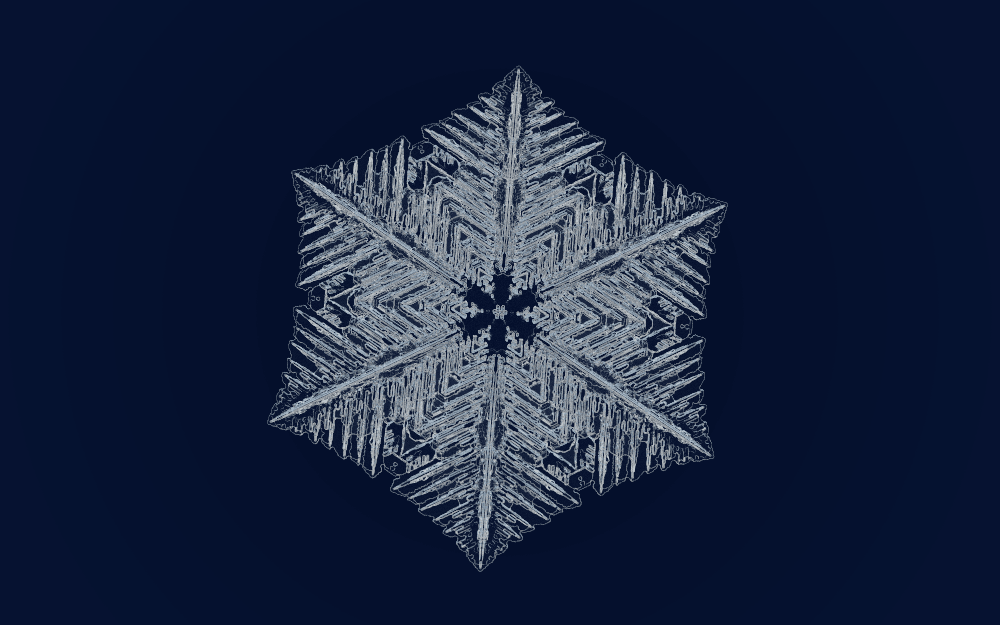
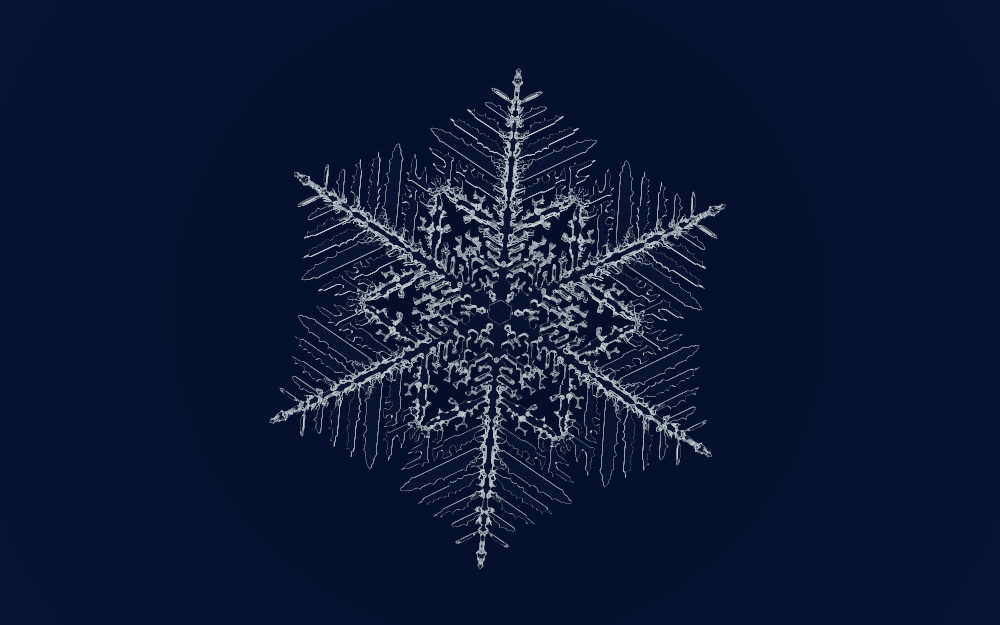
snowflake: open fernlike stellar dendrites near water saturation
The old fern was a filled hexagonal plate with fern-patterned ridges on top
(seen from above, 77% of the disk out to its tips was ice, like a plain
plate), so no weather grew the open dendrites of real snow. A random search
(.search.mjs, scored by the new snow.shape(): how much of the disk is ice
seen from above, and how much edge it has) found open, branched, thin
crystals with every attachment threshold about doubled and ten times the
melting. Near water saturation at plate temperatures the model now blends
toward those settings, scaled with the chart's vapor, so plates give way to
sectored plates and then to fernlike stellar dendrites (fill 0.77 -> 0.27).
Other weathers are unchanged and every preset still grows in 4.4-7.2 s.

Changed region(s): [[0.248, 0.0912, 0.744, 0.912]]

diff --git a/snowflake/habits.js b/snowflake/habits.js
@@ -90,6 +90,44 @@ const THRESHOLDS = [
   [-1, 2.2, 4.2],
 ];
 
+/**
+ * Stellar and fernlike dendrites: thin arms with side branches and open
+ * gaps between the arms, which real crystals grow near water saturation at
+ * plate temperatures. Found by a random search (.search.mjs) for crystals that
+ * are open and branched seen from above: every attachment threshold about
+ * twice the plates', and ten times the melting. The search found it at rho
+ * 0.247. The model is linear in vapor (scaling rho and every threshold
+ * together grows the same crystal), so the thresholds here are per unit of
+ * rho and scale with whatever rho the chart gives.
+ */
+const DENDRITE = {
+  kappa: 0.00101,
+  mu: 0.0138,
+  gamma: 0.00085,
+  sigma: 0.000635,
+  diff: 0.132,
+};
+const DENDRITE_PER_RHO = Object.fromEntries(
+  Object.entries({
+    b01: 3.67,
+    b10: 2.03,
+    b20: 2.64,
+    b11: 1.48,
+    b21: 1.48,
+    b30: 2.14,
+    b31: 2.14,
+    theta: 0.0209,
+    xi: 0.0495,
+  }).map(([key, v]) => [key, v / 0.247]),
+);
+/** Rates that range over orders of magnitude blend on a log scale */
+const RATES = ['kappa', 'mu', 'gamma'];
+
+const smoothstep = (a, b, x) => {
+  const t = Math.min(1, Math.max(0, (x - a) / (b - a)));
+  return t * t * (3 - 2 * t);
+};
+
 /** Model parameters for a temperature (C) and supersaturation over ice */
 export const paramsFor = (weather) => {
   const P = plateness(weather.T);
@@ -102,13 +140,25 @@ export const paramsFor = (weather) => {
     THRESHOLDS.map(([p, , d]) => [p, d]),
     P,
   );
-  return {
+  const plain = {
     ...BASE,
     rho: 0.04 + 0.32 * s ** 1.3,
     b01: top,
     b10: side,
     b20: side,
   };
+  // Near water saturation where plates grow, they turn into dendrites
+  const w = smoothstep(0.6, 0.95, s) * smoothstep(0.4, 0.9, P);
+  if (!w) return plain;
+  return Object.fromEntries(
+    Object.entries(plain).map(([key, v]) => {
+      const to =
+        key === 'rho'
+          ? v
+          : (DENDRITE[key] ?? DENDRITE_PER_RHO[key] * plain.rho);
+      return [key, RATES.includes(key) ? v * (to / v) ** w : v + (to - v) * w];
+    }),
+  );
 };
 
 /** Labels for the chart's regions, after Libbrecht's morphology diagram:

diff --git a/snowflake/main.js b/snowflake/main.js
@@ -437,7 +437,49 @@ window.snow = {
     testing = false;
     return rows.filter((_, k) => k % Math.ceil(rows.length / 8) === 0);
   },
-  async grow({path, model: m, steps = 20000, chunk = 100} = {}) {
+  /**
+   * For tuning: how open and how branched the crystal is seen from above. fill: the
+   * share of the disk out to the farthest cell that's crystal (a solid
+   * hexagon is 0.83). edge: crystal cells with a vapor neighbor, per cell of
+   * radius (a plain hexagon is about 6).
+   */
+  async shape() {
+    const m = await sim.above();
+    const n = sim.n;
+    const at = (q, r) =>
+      r >= 0 && r <= q && q < n ? m[(q * (q + 1)) / 2 + r] : 0;
+    const fold = (q, r) => {
+      for (let k = 0; k < 3; k++) {
+        if (r < 0) [q, r] = [q + r, -r];
+        if (r > q) [q, r] = [r, q];
+      }
+      return at(q, r);
+    };
+    let ice = 0;
+    let edge = 0;
+    let far = 0;
+    for (let q = 0; q < n; q++)
+      for (let r = 0; r <= q; r++) {
+        if (!at(q, r)) continue;
+        // each wedge cell stands for 12, fewer on the wedge's edges
+        const copies = r === 0 || r === q ? 6 : 12;
+        ice += q === 0 ? 1 : copies;
+        far = Math.max(far, Math.sqrt(q * q + q * r + r * r));
+        const around = [
+          [1, 0],
+          [-1, 0],
+          [0, 1],
+          [0, -1],
+          [1, -1],
+          [-1, 1],
+        ];
+        if (around.some(([dq, dr]) => !fold(q + dq, r + dr))) edge += copies;
+      }
+    // cells per unit area on a triangular lattice: 2 / sqrt(3)
+    const disk = Math.PI * far * far * (2 / Math.sqrt(3));
+    return {fill: ice / disk, edge: edge / far, far};
+  },
+  async grow({path, model: m, steps = 20000, chunk = 100, settle = 300} = {}) {
     testing = true;
     if (m) Object.assign(manual, m);
     settings.manual = !!m;
@@ -447,7 +489,7 @@ window.snow = {
       frame(chunk);
       await device.queue.onSubmittedWorkDone();
     }
-    for (let k = 0; k < 300; k++) {
+    for (let k = 0; k < settle; k++) {
       frame(0);
       await device.queue.onSubmittedWorkDone();
     }

diff --git a/snowflake/sim.js b/snowflake/sim.js
@@ -434,6 +434,28 @@ export const makeSim = (device, {n, nz}) => {
     extents,
     /** The smoothed crystal, for drawing */
     field,
+    /** For tuning: the crystal seen from above, 1 where any layer is
+        crystal, read back */
+    async above() {
+      const read = device.createBuffer({
+        size: cells * 8,
+        usage: GPUBufferUsage.COPY_DST | GPUBufferUsage.MAP_READ,
+      });
+      const encoder = device.createCommandEncoder();
+      encoder.copyBufferToBuffer(a[0], 0, read, 0, cells * 4);
+      encoder.copyBufferToBuffer(a[1], 0, read, cells * 4, cells * 4);
+      device.queue.submit([encoder.finish()]);
+      await read.mapAsync(GPUMapMode.READ);
+      const both = new Uint32Array(read.getMappedRange().slice(0));
+      read.destroy();
+      const [x, y] = [both.subarray(0, cells), both.subarray(cells)];
+      // the newer copy has the more crystal
+      const sum = (c) => c.reduce((t, v) => t + v, 0);
+      const now = sum(x) >= sum(y) ? x : y;
+      const top = new Uint8Array(layer);
+      for (let i = 0; i < cells; i++) if (now[i]) top[i % layer] = 1;
+      return top;
+    },
     reset,
     setParams,
     step,

diff --git a/snowflake/README.md b/snowflake/README.md
@@ -2,7 +2,7 @@ Snowflake - 2026 - Draw the weather a snow crystal falls through and watch it gr
 
 Growth follows Gravner and Griffeath's mesoscopic model of snow crystals ("Modeling snow-crystal growth: a three-dimensional mesoscopic approach", 2009) on a lattice of hexagonal prisms, run on WebGPU. Vapor diffuses toward the crystal, condenses on its surface, and cells join the crystal once they've gathered enough, more easily the more crystal they touch. Branching, faceting, ridges and hollows all come out of that. The six-fold symmetry comes from the lattice, as it comes from ice's molecules in real snow, and only 1/24 of the crystal is simulated.
 
-The chart in the corner is temperature across and supersaturation over ice up: how much more water vapor the air holds than ice is in balance with. The dashed line is water saturation. Inside a cloud, droplets keep the air near that line, which is why ferny stars, which need air near water saturation at about -15°C, are common, while the far top of the chart is only reached in a lab. Drag on the chart to draw a path, or click to hold one spot; the dot moves along the path as the crystal grows. Random weather draws a smooth wandering path, so every crystal comes out different. Temperature sets how much harder a new layer is to start on the top face than on the sides (real crystals flip between plates and columns twice between 0 and -22°C), and how close the air is to water saturation sets how much vapor the model has. The region labels follow Libbrecht's morphology diagram, but the mapping from the chart to the model's parameters is hand tuned, so the model's crystals only roughly match where real ones grow.
+The chart in the corner is temperature across and supersaturation over ice up: how much more water vapor the air holds than ice is in balance with. The dashed line is water saturation. Inside a cloud, droplets keep the air near that line, which is why ferny stars, which need air near water saturation at about -15°C, are common, while the far top of the chart is only reached in a lab. Drag on the chart to draw a path, or click to hold one spot; the dot moves along the path as the crystal grows. Random weather draws a smooth wandering path, so every crystal comes out different. Temperature sets how much harder a new layer is to start on the top face than on the sides (real crystals flip between plates and columns twice between 0 and -22°C), and how close the air is to water saturation sets how much vapor the model has. Near water saturation at plate temperatures the model also shifts toward settings found by a search for open, branched crystals (every attachment threshold about doubled, with ten times the melting), so plates give way to sectored plates and then to fernlike stellar dendrites, thin arms with side branches and open gaps between them, as in real snow. The region labels follow Libbrecht's morphology diagram, but the mapping from the chart to the model's parameters is hand tuned, so the model's crystals only roughly match where real ones grow.
 
 The URL keeps the path, grid size and lighting, so a link grows the same crystal. Speed is how long a crystal takes to grow: about 5 seconds at Normal (a few weathers that need tens of thousands of steps take up to about 7), 15 at Slow, and as fast as the GPU allows at Fast. While it grows the preview follows light through only two surfaces, and the full picture builds once it stops.
 

diff --git a/snowflake/CLAUDE.md b/snowflake/CLAUDE.md
@@ -17,3 +17,4 @@
 - Drawn and random weathers took 4-60+ s even on the 160 grid, but with few steps (2,700 steps in 41 s): thick 3D crystals took ~35 ms a frame to trace, and the step controller only gets what's left of a frame. Drawing at half size while growing fixed it (eight random weathers: 1.0-3.1 s); then 2 bounces at full size replaced that, same cost per frame (fern 13 ms vs 12; 8 bounces at full size 35 ms) and much sharper. Speed is now a target time: Normal holds growth back to about 5 s (8 random weathers 4.6-5.2 s; presets 4.6-7.2 s, the simple plate and column need ~21,000 steps).
 - Lamp and shadow (Nov 2026): a compute pass (`light` in render.js) traces one ray per cell of a 512 x 512 map across the lamp's beam each frame, through the crystal to the floor, and counts landings. Because each map cell is a patch of the beam, count / frames is the floor's light relative to no crystal, with no other normalizing. It runs only once the crystal is still (during growth the floor shows no shadow), costs ~11% while settling (fern: 26.7 vs 23.7 fps), and keeps its counts while the camera turns. The map's outer 6% fades to plain light: rays the lamp's size sends past the edge are lost and none come in, which drew a visible square. Lamp radius 0.05 rad gave soft caustics and the ice glittered with fireflies (paths that rarely find a bright small lamp); at 0.02 with each camera sample capped at 40 (BRIGHTEST) it's clean. The cap doesn't touch the other lights, which never exceed ~4.
 - Under the lamp the crystal stands on an arm tip (the world, not the crystal, is turned: `standing` in render.js), so shadows fall long. The lamp isn't in the background at all: a path that found so small a lamp brought back ~2,400 and the 40 cap crushed every reflection of it. Instead the lamp's light is added directly (GGX, GLOSS 0.1 reflected, HAZE 0.2 coming through the ice) where the camera's ray first meets the ice and where it first reaches the far side, if a ray toward the lamp is clear. Reflection alone looked dull: a vertical face sends the low lamp's light down, never up to a camera above, so most sparkle is light coming through the ice. Narrower (0.1) light through the ice lit single pixels like grit, and adding it at every surface turned thick crystals to sandpaper.
+- Open ferns (Nov 2026): the old fern was a filled hexagonal plate with fern-patterned ridges on top (seen from above, 77% of the disk out to its tips was ice, the same as a plain plate), which is why no weather gave open dendrites. Ruled out first: more vapor (solid plates), slower diffusion, noise, stopping growth earlier, the corner fill-in rule off, easier tips with harder side rows (plates or ruled wedges), GG's 2D melting (smooth plates), the Large grid (a finer filled hexagon). `.search.mjs` grows random parameters and scores them with `snow.shape()` (fill: share of the disk that's ice seen from above; edge: boundary per unit radius). Open, branched, thin crystals had every threshold about 2-2.6 (plates 1-1.4) and mu ~0.014 (0.001). `DENDRITE` in habits.js is the best (fill 0.27 vs 0.77), with thresholds stored per unit of rho, since scaling rho and all thresholds together grows the same crystal. It blends in with wetness 0.6-0.95 at plateness 0.4-0.9, so -14°C 7.4% is unchanged and the Fern star preset takes ~5,300 steps (was ~1,900), still ~5 s at Normal.
